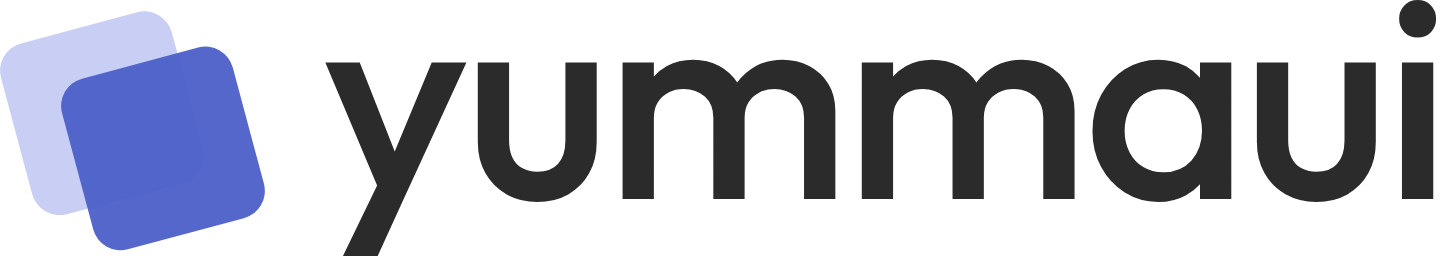
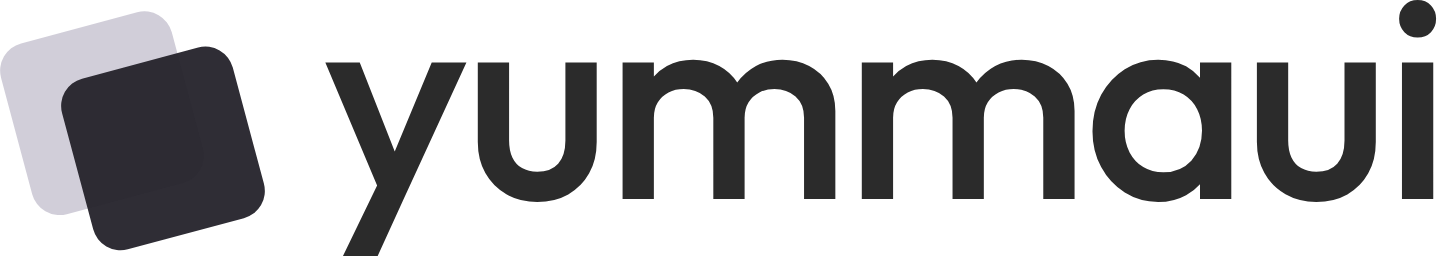
Brand files and share images go charcoal
The mark, favicons and link previews use the site's own colors.

Claude-Session: https://claude.ai/code/session_018ZbwbVvHmdo9rTbSBjFZJw

Changed region(s): [[0.0, 0.0312, 0.1861, 1.0]]

diff --git a/apps/yummaui.com/src/components/og-image.tsx b/apps/yummaui.com/src/components/og-image.tsx
@@ -8,25 +8,25 @@ export type OgTheme = "light" | "dark";
 // the site's own tokens; `on` is what sits on the accent and fills the handles
 const PALETTES = {
 	light: {
-		page: "#f7f8fb",
+		page: "#f9f9fa",
 		panel: "#ffffff",
-		rule: "#e3e6ef",
-		tick: "#8b91a3",
+		rule: "#dfdfe3",
+		tick: "#74747a",
 		ink: "#14171f",
-		muted: "#6b7180",
-		accent: "#4c5fc7",
+		muted: "#626269",
+		accent: "#24222a",
 		on: "#ffffff",
 	},
 	// the canvas is the surface, as the site's boxes are, so it stands off the page
 	dark: {
-		page: "#1a1d2e",
-		panel: "#20243a",
-		rule: "#2c3152",
-		tick: "#5c6080",
+		page: "#0e0e11",
+		panel: "#19191d",
+		rule: "#2e2d32",
+		tick: "#636269",
 		ink: "#ffffff",
-		muted: "#9a9db0",
-		accent: "#bec6f2",
-		on: "#151724",
+		muted: "#9e9ea3",
+		accent: "#e6e5ea",
+		on: "#24222a",
 	},
 };
 
